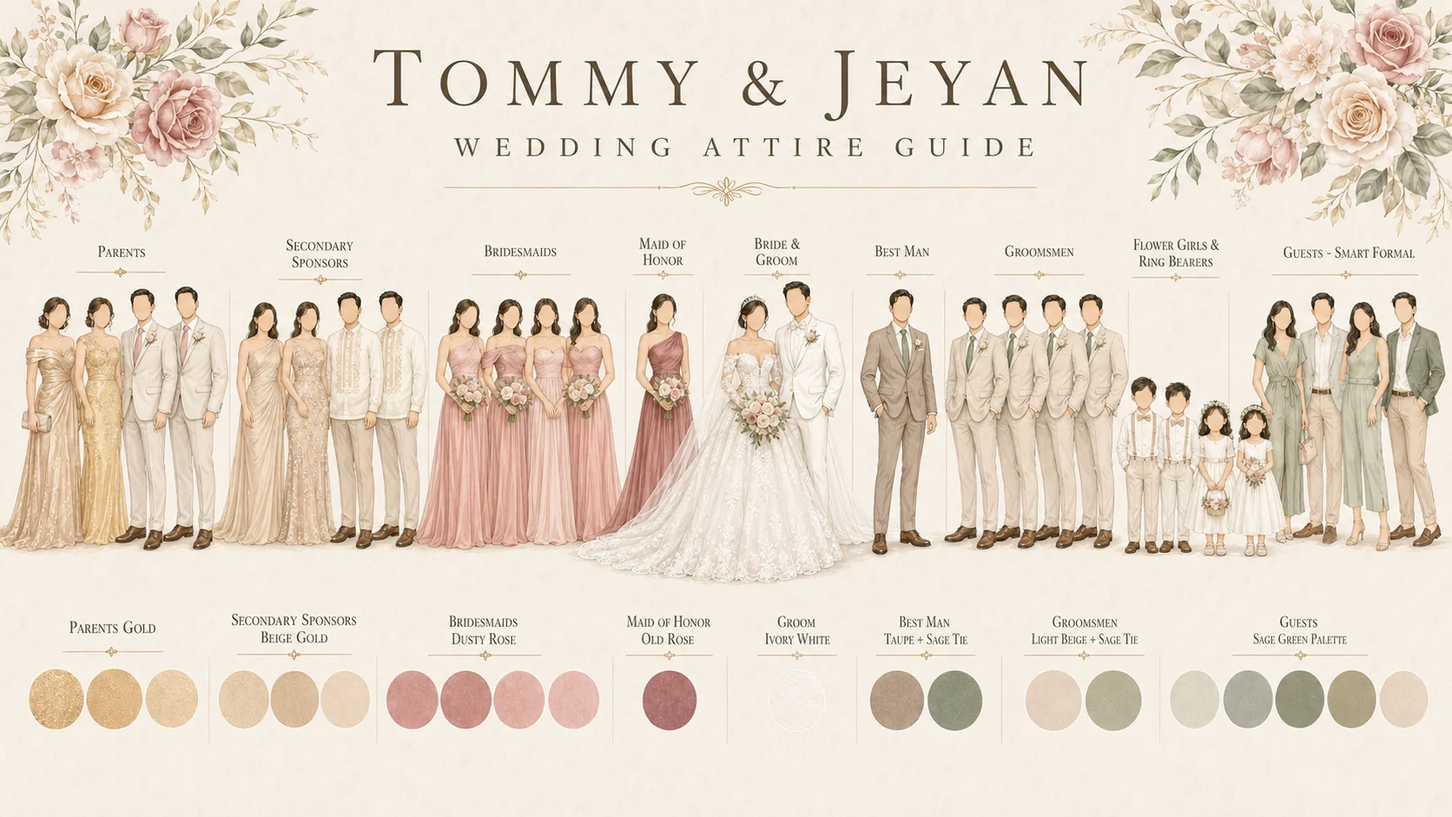
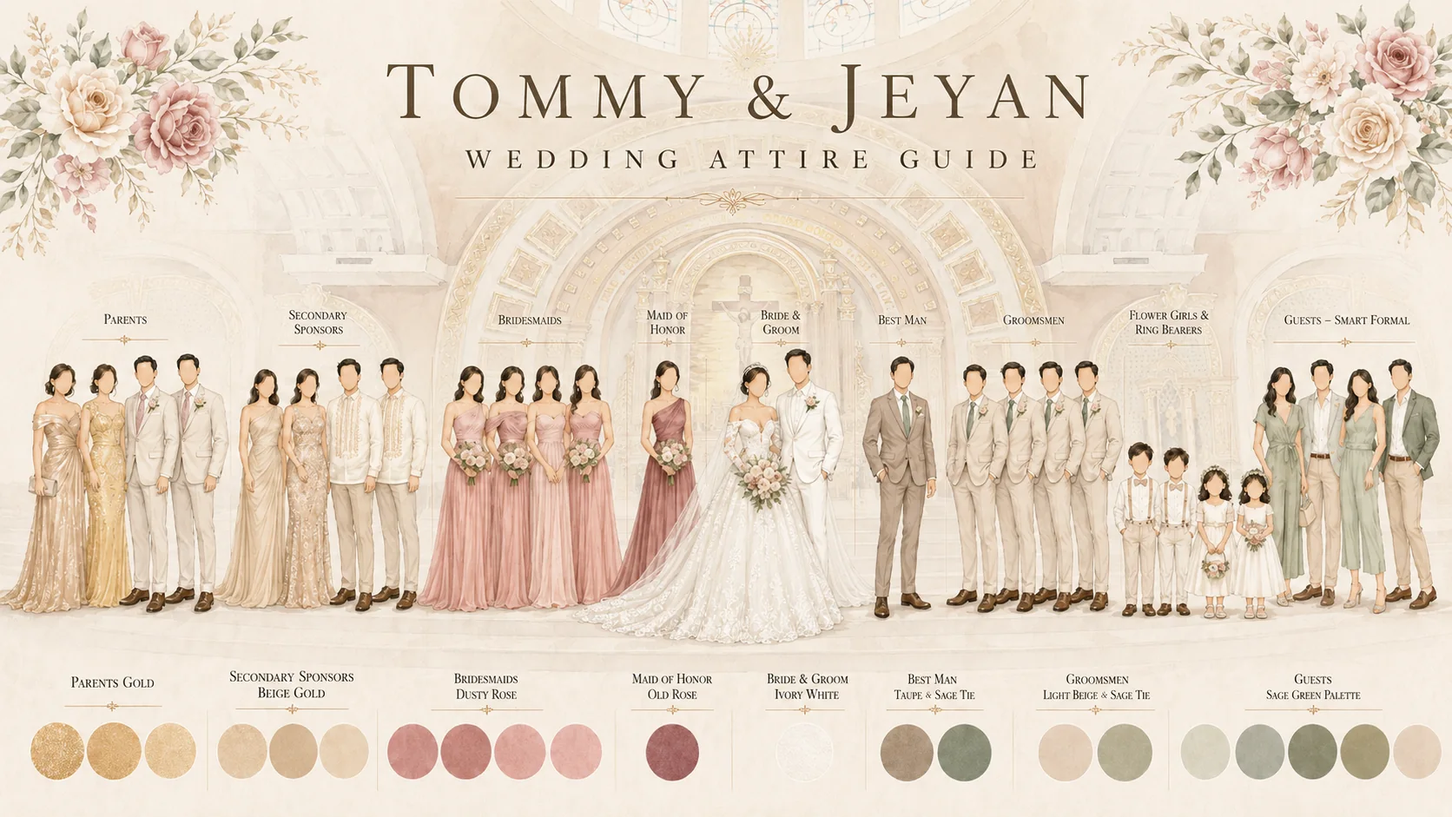
Beach goes widescreen + true beach vibes; map air; lightbox centering
- Fix: .scene place-items:center now shrink-wraps block children in new
  Chrome - the beach stage collapsed to text width on desktop. place-items
  normal on #s-beach/#s-journey + explicit widths.
- Beach: teal sea-glass water, foam swash, drifting clouds, gliding gulls,
  swaying palm fronds, starfish + shell, bigger horizon sun; detail cards
  in one row of four on wide screens. All animation reduced-motion gated.
- Our World (phone): taller chart (3/4.9), respaced pins, Sea of Someday
  moved to open water, redundant legend chip hidden.
- Lightbox: fit-content sizing so the dialog hugs the image (was pinned
  to an edge / cut off-centre on both phone and desktop); wide images on
  portrait phones turn sideways to fill the screen, absolutely centred.
- New attire guide artwork (attire-guide.webp, cache-busted ?v=2).

diff --git a/docs/journey.html b/docs/journey.html
@@ -255,9 +255,9 @@
     .reveal.d1 { transition-delay: .05s; } .reveal.d2 { transition-delay: .2s; } .reveal.d3 { transition-delay: .35s; }
 
     /* Section 1 — the journey (over globe, transparent; becomes a scroll "pin tour" with WebGL) */
-    #s-journey { display: block; padding: 0; }
+    #s-journey { display: block; place-items: normal; padding: 0; }
     html.webgl #s-journey { min-height: 320svh; }
-    .tour-sticky { position: sticky; top: 0; min-height: 100svh; display: grid; place-items: center; padding: 12vh 24px; }
+    .tour-sticky { position: sticky; top: 0; width: 100%; min-height: 100svh; display: grid; place-items: center; padding: 12vh 24px; }
     #s-journey .copy h2 { font-size: clamp(30px, 6vw, 60px); color: #f4eede; }
     #s-journey .lede { margin-top: 18px; color: rgba(236,230,218,.72); font-size: 17px; }
     .pinwords { display: flex; flex-wrap: wrap; gap: 10px 14px; justify-content: center; margin-top: 28px; }
@@ -303,49 +303,86 @@
     .banner-copy .eyebrow { color: var(--gold-soft); text-shadow: 0 1px 14px rgba(0,0,0,.7); }
     .banner-copy h2 { color: #fdf8ee; font-size: clamp(32px, 7vw, 70px); text-shadow: 0 2px 30px rgba(0,0,0,.5); }
 
-    /* Section 2 — The Day: a quiet sunset beach.
-       The scene lives in its own stage; the detail cards sit BELOW it on the
-       sand, so the sun, waves, guitar and sunglasses are never covered. */
-    #s-beach { display: block; padding: 0; min-height: 100svh; overflow: hidden; background: #e9cda1; }
-    .beach-stage { position: relative; height: max(62svh, 430px); overflow: hidden; }
-    .beach-sky { position: absolute; left: 0; right: 0; top: 0; height: 60%; pointer-events: none;
-      background: linear-gradient(180deg, #dfa172 0%, #efc491 46%, #fbe7c6 100%); }
-    .beach-sun { position: absolute; left: 0; right: 0; top: 47%; height: 0; pointer-events: none; }
-    .beach-sun::before { content: ""; display: block; margin: 0 auto; width: clamp(130px, 26vw, 210px);
-      aspect-ratio: 1; border-radius: 50%; transform: translateY(-50%);
-      background: radial-gradient(circle, #fff3d6 0%, #ffe2ad 38%, rgba(255,214,150,.45) 62%, transparent 75%);
+    /* Section 2 — The Day: a sunset beach.
+       The scene lives in its own full-width stage; the detail cards sit BELOW
+       it on the sand, so the water, sun, palms and guitar are never covered.
+       place-items: normal undoes .scene's place-items:center — in newer
+       Chrome that now reaches block children too and shrink-wrapped the
+       stage to the heading's text width on desktop. */
+    #s-beach { display: block; place-items: normal; padding: 0; min-height: 100svh; overflow: hidden; background: #ecd2a6; }
+    .beach-stage { position: relative; width: 100%; height: max(64svh, 460px); overflow: hidden; }
+    .beach-stage > * { pointer-events: none; }
+    .beach-sky { position: absolute; left: 0; right: 0; top: 0; height: 58%;
+      background: linear-gradient(180deg, #c96b43 0%, #e08d59 26%, #f2b87e 56%, #fbdfae 83%, #fdeec9 100%); }
+    .beach-cloud { position: absolute; height: 15px; border-radius: 50px; background: rgba(255,238,212,.7);
+      filter: blur(7px); animation: cdrift 70s linear infinite; }
+    .beach-cloud.c1 { top: 38%; width: clamp(140px, 16vw, 240px); opacity: .8; }
+    .beach-cloud.c2 { top: 46%; width: clamp(90px, 11vw, 170px); height: 11px; animation-duration: 95s; animation-delay: -40s; opacity: .65; }
+    .beach-cloud.c3 { top: 7%; width: clamp(70px, 8vw, 130px); height: 9px; animation-duration: 80s; animation-delay: -64s; opacity: .5; }
+    @keyframes cdrift { from { transform: translateX(-28vw); } to { transform: translateX(112vw); } }
+    .beach-birds { position: absolute; top: 6%; left: 0; width: clamp(64px, 8vw, 110px); color: rgba(86,50,28,.6);
+      animation: bglide 44s linear infinite; }
+    .beach-birds.b2 { top: 40%; width: clamp(44px, 5.4vw, 76px); animation-duration: 58s; animation-delay: -30s; opacity: .65; }
+    @keyframes bglide {
+      from { transform: translateX(-18vw) translateY(0); }
+      50%  { transform: translateX(46vw) translateY(-16px); }
+      to   { transform: translateX(112vw) translateY(2px); }
+    }
+    .beach-sun { position: absolute; left: 0; right: 0; top: 58%; height: 0; }
+    .beach-sun::before { content: ""; display: block; margin: 0 auto; width: clamp(150px, 19vw, 280px);
+      aspect-ratio: 1; border-radius: 50%; transform: translateY(-58%);
+      background: radial-gradient(circle, #fff6dd 0%, #ffe3a6 38%, #ffc887 58%, rgba(255,196,135,.5) 72%, transparent 80%);
       filter: blur(1px); }
-    .beach-sea { position: absolute; left: 0; right: 0; top: 58%; height: 15%; pointer-events: none;
-      background: linear-gradient(180deg, #d9a276 0%, #cb9a7c 100%); }
+    /* water: a warm mirror at the horizon melting into real sea-glass teal */
+    .beach-sea { position: absolute; left: 0; right: 0; top: 58%; height: 19%;
+      background: linear-gradient(180deg,
+        #e2a36a 0%, #c2a07c 7%, #79ada0 22%, #5b9a90 46%, #74b3a4 72%, #9ccdba 92%, #bfdfcd 100%); }
     .beach-sea::after { /* sun glitter path on the water */
-      content: ""; position: absolute; left: 50%; top: 0; bottom: 0; width: clamp(60px, 12vw, 110px);
+      content: ""; position: absolute; left: 50%; top: 0; height: 70%; width: clamp(70px, 9vw, 130px);
       transform: translateX(-50%);
-      background: linear-gradient(180deg, rgba(255,240,205,.55), rgba(255,240,205,0));
-      filter: blur(4px); }
-    .beach-waves { position: absolute; left: -4%; right: -4%; width: 108%; top: 56%; height: 64px; pointer-events: none; }
-    .beach-waves .w1 { fill: rgba(213,150,110,.5); animation: wdrift 16s ease-in-out infinite alternate; }
-    .beach-waves .w2 { fill: rgba(236,188,138,.65); animation: wdrift 11s ease-in-out infinite alternate-reverse; }
-    .beach-waves .w3 { fill: none; stroke: rgba(253,240,214,.8); stroke-width: 2; stroke-linecap: round;
+      background: linear-gradient(180deg, rgba(255,236,185,.8), rgba(255,236,185,0));
+      filter: blur(5px); }
+    .beach-waves { position: absolute; left: -4%; right: -4%; width: 108%; top: 68.5%; height: 70px; }
+    .beach-waves .w1 { fill: rgba(64,134,124,.42); animation: wdrift 16s ease-in-out infinite alternate; }
+    .beach-waves .w2 { fill: rgba(141,200,185,.62); animation: wdrift 11s ease-in-out infinite alternate-reverse; }
+    .beach-waves .w3 { fill: none; stroke: rgba(253,247,232,.9); stroke-width: 2; stroke-linecap: round;
       animation: wdrift 13s ease-in-out infinite alternate; }
     @keyframes wdrift { from { transform: translateX(-18px); } to { transform: translateX(18px); } }
-    .beach-sand { position: absolute; left: 0; right: 0; top: 71%; bottom: 0; pointer-events: none;
-      background: linear-gradient(180deg, #f2d9b0 0%, #e9cda1 100%); }
+    /* foam licking the sand */
+    .beach-foam { position: absolute; left: -4%; width: 108%; top: 73.2%; height: 44px; color: #fdf4e0;
+      animation: swash 8s ease-in-out infinite alternate; }
+    .beach-foam path { fill: currentColor; opacity: .9; }
+    @keyframes swash { from { transform: translateY(-5px); } to { transform: translateY(5px); } }
+    .beach-sand { position: absolute; left: 0; right: 0; top: 76%; bottom: 0;
+      background: linear-gradient(180deg, #f6deb4 0%, #ecd2a6 100%); }
     .beach-sand::after { content: ""; position: absolute; inset: 0; opacity: .4;
       background-image: radial-gradient(rgba(140,100,55,.12) 1px, transparent 1.4px);
       background-size: 26px 26px; }
-    .beach-guitar { position: absolute; right: clamp(10px, 6vw, 90px); bottom: 6px; height: clamp(130px, 44%, 230px);
-      width: auto; color: #6b4527; opacity: .6; transform: rotate(7deg); pointer-events: none; }
-    .beach-shades { position: absolute; left: clamp(12px, 8vw, 120px); bottom: 7%; width: clamp(60px, 16%, 110px);
-      color: #6b4527; opacity: .55; transform: rotate(-9deg); pointer-events: none; }
+    /* line-art keepsakes on the sand */
+    .beach-palm { position: absolute; top: -8px; left: -10px; width: clamp(170px, 25vw, 380px); color: #5d3c22;
+      opacity: .8; transform-origin: 6% 4%; animation: sway 9s ease-in-out infinite alternate; }
+    @keyframes sway { from { transform: rotate(-1deg); } to { transform: rotate(1.2deg); } }
+    .beach-guitar { position: absolute; right: clamp(14px, 7vw, 130px); bottom: 8px; height: clamp(150px, 48%, 270px);
+      width: auto; color: #6b4527; opacity: .72; transform: rotate(7deg); }
+    .beach-shades { position: absolute; left: clamp(14px, 8vw, 130px); bottom: 6.5%; width: clamp(64px, 14%, 118px);
+      color: #6b4527; opacity: .6; transform: rotate(-9deg); }
+    .beach-star { position: absolute; left: 34%; bottom: 4.5%; width: clamp(30px, 4vw, 52px);
+      color: #8a5a32; opacity: .55; transform: rotate(14deg); }
+    .beach-shell { position: absolute; right: 31%; bottom: 13%; width: clamp(22px, 3vw, 38px);
+      color: #8a5a32; opacity: .5; transform: rotate(-12deg); }
     .beach-head { position: relative; z-index: 2; max-width: 760px; margin: 0 auto; text-align: center;
       padding: clamp(44px, 8svh, 84px) 24px 0; }
-    #s-beach .eyebrow { color: #6b3a1c; }
-    #s-beach h2 { color: #46291a; font-size: clamp(34px, 7vw, 64px); }
-    #s-beach .lede { margin-top: 12px; color: #6e4730; max-width: 520px; margin-left: auto; margin-right: auto; }
-    .beach-details { position: relative; z-index: 1; padding: 4px 24px clamp(48px, 8svh, 84px);
-      background: linear-gradient(180deg, #e9cda1 0%, #e3c393 100%); }
+    #s-beach .eyebrow { color: #5d2f15; }
+    #s-beach h2 { color: #3f2312; font-size: clamp(34px, 7vw, 64px); }
+    #s-beach .lede { margin-top: 12px; color: #5f3a22; max-width: 520px; margin-left: auto; margin-right: auto; }
+    .beach-details { position: relative; z-index: 1; padding: 10px 24px clamp(48px, 8svh, 84px);
+      background: linear-gradient(180deg, #ecd2a6 0%, #e4c596 100%); }
     .beach-details .detail-grid { max-width: 760px; margin: 14px auto 0; }
-    @media (min-width: 720px) { .beach-stage { height: max(68svh, 520px); } }
+    @media (min-width: 720px) { .beach-stage { height: max(74svh, 560px); } }
+    @media (min-width: 980px) { /* widescreen: one elegant row of four */
+      .beach-details .detail-grid { max-width: 1140px; grid-template-columns: repeat(4, 1fr); }
+      .beach-details .detail.wide { grid-column: auto; }
+    }
     .detail-grid { display: grid; grid-template-columns: repeat(2, 1fr); gap: 14px; margin-top: 30px; }
     .detail { background: rgba(255,252,245,.84); backdrop-filter: blur(6px);
       border: 1px solid rgba(255,255,255,.65); border-radius: 6px; padding: 20px 18px;
@@ -376,7 +413,7 @@
       /* no min-height: with aspect-ratio it transfers into a min-WIDTH (409px)
          that overflowed phone screens; the ratio alone defines the height */
       position: relative; width: 100%; max-width: 980px; margin: 34px auto 0;
-      aspect-ratio: 3 / 4.4;
+      aspect-ratio: 3 / 4.9;
       border-radius: 14px; overflow: hidden;
       background:
         radial-gradient(120% 90% at 50% 0%, rgba(255,253,247,.9), transparent 55%),
@@ -524,8 +561,20 @@
     .music-btn.playing { background: var(--gold); color: var(--night1); }
     /* gallery lightbox */
     .gtile { cursor: zoom-in; }
-    dialog.panel.lightbox { background: transparent; box-shadow: none; width: auto; max-width: min(94vw, 1100px); overflow: visible; }
-    dialog.panel.lightbox img { display: block; max-width: 94vw; max-height: 86svh; border-radius: 10px; box-shadow: var(--shadow); }
+    /* fit-content (not auto): a modal dialog has inset:0, so auto would
+       stretch it across the viewport and the image would pin to one edge
+       instead of centering. The box hugs the image; margin:auto centers it. */
+    dialog.panel.lightbox { background: transparent; box-shadow: none;
+      width: fit-content; height: fit-content; max-width: none; max-height: none; overflow: visible; }
+    dialog.panel.lightbox img { display: block; max-width: 94vw; max-height: 88svh; border-radius: 10px; box-shadow: var(--shadow); }
+    /* phones: a wide image in a portrait viewport turns sideways to use the
+       whole screen (JS adds .rotated and sets the width) */
+    dialog.panel.lightbox.rotated { width: 100vw; max-width: 100vw; height: 100svh; max-height: 100svh; margin: 0; }
+    /* absolute centering: a grid cell start-aligns content that overflows it,
+       so the sideways (extra-wide layout box) image would sit off-centre */
+    dialog.panel.lightbox.rotated img { position: absolute; left: 50%; top: 50%;
+      transform: translate(-50%, -50%) rotate(90deg); max-width: none; max-height: none; }
+    dialog.panel.lightbox.rotated .panel-close { position: fixed; top: calc(10px + env(safe-area-inset-top)); right: 10px; }
     dialog.panel.lightbox .panel-close {
       position: absolute; top: -14px; right: -14px; background: var(--ivory); border-color: var(--ivory);
     }
@@ -686,15 +735,17 @@
       .map-compass { width: 46px; top: 18px; right: 18px; }
       .map-script { font-size: 17px; left: 18px; bottom: 12px; }
       #s-world { padding-left: 14px; padding-right: 14px; }
+      .beach-shell { right: 47%; bottom: 11%; }
       .map-cartouche { padding: 5px 14px 7px; }
       .map-cartouche span { font-size: 8px; }
       .map-cartouche b { font-size: 16px; }
-      .map-sea { font-size: 12.5px; letter-spacing: .2em; bottom: 30%; right: 5%; }
-      .map-legend { font-size: 9px; padding: 5px 9px; }
+      .map-sea { font-size: 12.5px; letter-spacing: .2em; top: 31%; left: 7%; right: auto; bottom: auto; }
+      /* the hint below the map says the same thing — give the chart air */
+      .map-legend { display: none; }
       .pin-place { font-size: 11.5px; }
       .ent-leads, .ent-party { grid-template-columns: 1fr; }
       dialog.panel { width: 100%; max-width: 100%; height: 100svh; max-height: 100svh; border-radius: 0; margin: 0; }
-      dialog.panel.lightbox { width: auto; height: auto; max-height: none; margin: auto; background: transparent; }
+      dialog.panel.lightbox { width: fit-content; height: fit-content; max-height: none; margin: auto; background: transparent; border-radius: 8px; }
       dialog.panel.lightbox .panel-close { top: 6px; right: 6px; }
       .panel-inner { padding: 28px 20px 40px; }
     }
@@ -716,7 +767,10 @@
       .spark { display: none; }
       #title h1 .tw { opacity: 1; transform: none; }
       #s-next .arrive-reveal { opacity: 1; transform: none; }
-      .beach-waves .w1, .beach-waves .w2, .beach-waves .w3 { animation: none; }
+      .beach-waves .w1, .beach-waves .w2, .beach-waves .w3,
+      .beach-foam, .beach-palm { animation: none; }
+      .beach-cloud, .beach-birds { animation: none; transform: translateX(30vw); }
+      .beach-cloud.c2, .beach-birds.b2 { transform: translateX(60vw); }
       #s-journey { min-height: 100svh !important; }
     }
   </style>
@@ -863,6 +917,20 @@
     <section class="scene" id="s-beach" data-scene="beach">
       <div class="beach-stage">
       <div class="beach-sky" aria-hidden="true"></div>
+      <div class="beach-cloud c1" aria-hidden="true"></div>
+      <div class="beach-cloud c2" aria-hidden="true"></div>
+      <div class="beach-cloud c3" aria-hidden="true"></div>
+      <svg class="beach-birds" aria-hidden="true" viewBox="0 0 100 40">
+        <g fill="none" stroke="currentColor" stroke-width="2.4" stroke-linecap="round">
+          <path d="M8 22 Q15 14 22 20 Q29 14 36 22" />
+          <path d="M58 30 Q64 24 69 28 Q74 24 80 30" />
+        </g>
+      </svg>
+      <svg class="beach-birds b2" aria-hidden="true" viewBox="0 0 100 40">
+        <g fill="none" stroke="currentColor" stroke-width="2.6" stroke-linecap="round">
+          <path d="M30 22 Q37 14 44 20 Q51 14 58 22" />
+        </g>
+      </svg>
       <div class="beach-sun" aria-hidden="true" data-parallax="0.1" data-pscale="1"></div>
       <div class="beach-sea" aria-hidden="true"></div>
       <svg class="beach-waves" aria-hidden="true" viewBox="0 0 1440 120" preserveAspectRatio="none">
@@ -871,6 +939,32 @@
         <path class="w3" d="M0,64 C190,50 380,78 580,64 C780,50 980,80 1180,66 C1300,58 1390,70 1440,64" />
       </svg>
       <div class="beach-sand" aria-hidden="true"></div>
+      <svg class="beach-foam" aria-hidden="true" viewBox="0 0 1440 60" preserveAspectRatio="none">
+        <path d="M0,36 C50,18 130,48 210,30 C290,14 360,50 450,30 C530,14 610,48 700,26 C780,12 860,50 950,30 C1030,16 1110,48 1190,28 C1270,14 1350,46 1440,28 L1440,60 L0,60 Z" />
+      </svg>
+      <svg class="beach-palm" aria-hidden="true" viewBox="0 0 400 300">
+        <g fill="none" stroke="currentColor" stroke-width="2.6" stroke-linecap="round" stroke-linejoin="round">
+          <path d="M24 14 C90 30 160 70 218 138" />
+          <path d="M52 28 q-2 16 -12 26 M78 40 q-3 16 -13 27 M104 55 q-4 17 -15 27 M130 71 q-5 17 -16 26 M156 90 q-6 17 -17 25 M181 110 q-7 16 -18 23 M203 130 q-8 15 -18 21" stroke-width="1.9" />
+          <path d="M52 28 q10 -14 24 -19 M78 40 q11 -13 25 -17 M104 55 q12 -12 26 -15 M130 71 q13 -11 27 -13 M156 90 q14 -10 27 -11 M181 110 q14 -9 26 -9" stroke-width="1.9" />
+          <path d="M22 18 C60 80 96 140 108 218" />
+          <path d="M38 52 q-16 4 -26 14 M50 84 q-17 4 -27 14 M62 118 q-18 5 -28 15 M72 150 q-18 6 -27 16 M82 184 q-17 7 -25 17 M90 210 q-16 8 -23 18" stroke-width="1.9" />
+          <path d="M38 52 q12 -12 26 -14 M50 84 q13 -11 27 -12 M62 118 q14 -10 28 -10 M72 150 q14 -9 27 -8 M82 184 q14 -8 26 -6" stroke-width="1.9" />
+          <path d="M26 12 C100 8 170 22 232 56" />
+          <path d="M70 12 q0 14 -8 26 M104 16 q-1 15 -10 27 M138 24 q-2 16 -12 27 M172 34 q-4 16 -14 26 M204 45 q-5 15 -15 24" stroke-width="1.9" />
+          <path d="M70 12 q8 -10 22 -12 M104 16 q9 -10 23 -11 M138 24 q10 -9 24 -9 M172 34 q11 -8 24 -7" stroke-width="1.9" />
+        </g>
+      </svg>
+      <svg class="beach-star" aria-hidden="true" viewBox="0 0 60 60">
+        <path d="M30 7 C32 17 35 21 43 22 C36 27 34 31 36 41 C30 36 27 36 20 42 C23 32 22 27 14 22 C23 21 27 16 30 7 Z"
+          fill="none" stroke="currentColor" stroke-width="2.2" stroke-linejoin="round" />
+      </svg>
+      <svg class="beach-shell" aria-hidden="true" viewBox="0 0 50 44">
+        <g fill="none" stroke="currentColor" stroke-width="2" stroke-linecap="round" stroke-linejoin="round">
+          <path d="M25 6 C38 6 45 18 44 32 C38 38 12 38 6 32 C5 18 12 6 25 6 Z" />
+          <path d="M25 7 V36 M14 9 L20 36 M36 9 L30 36" stroke-width="1.6" />
+        </g>
+      </svg>
       <svg class="beach-guitar" aria-hidden="true" viewBox="0 0 120 280">
         <g fill="none" stroke="currentColor" stroke-width="2.2" stroke-linecap="round" stroke-linejoin="round">
           <path d="M60 122 C38 122 24 140 24 162 C24 178 33 188 30 202 C27 226 44 248 62 248 C82 248 98 228 95 204 C93 189 100 179 100 162 C100 140 83 122 60 122 Z" />
@@ -966,13 +1060,13 @@
             <path class="route" d="" />
             <g class="route-plane" id="route-plane" style="display:none"><use href="#ic-plane" width="20" height="20" x="-10" y="-10"/></g>
           </svg>
-          <button class="map-pin" style="--mx:22;--my:15;--x:14;--y:34" data-panel="p-film" aria-label="Stop 1, Coffee Cove: watch our film"><span class="pin-dot"><svg><use href="#ic-coffee"/></svg><i class="pin-num">1</i></span><span class="pin-label">Our Film</span><span class="pin-place">Coffee Cove</span></button>
-          <button class="map-pin" style="--mx:70;--my:16;--x:33;--y:16" data-panel="p-itinerary" aria-label="Stop 2, Billiard Plains: itinerary"><span class="pin-dot"><svg><use href="#ic-ball"/></svg><i class="pin-num">2</i></span><span class="pin-label">Itinerary</span><span class="pin-place">Billiard Plains</span></button>
-          <button class="map-pin" style="--mx:72;--my:38;--x:83;--y:21" data-panel="p-directions" aria-label="Stop 3, Long Road Home: directions"><span class="pin-dot"><svg><use href="#ic-road"/></svg><i class="pin-num">3</i></span><span class="pin-label">Directions</span><span class="pin-place">Long Road Home</span></button>
-          <button class="map-pin" style="--mx:28;--my:50;--x:85;--y:54" data-panel="p-attire" aria-label="Stop 4, Yoga Shores: attire"><span class="pin-dot"><svg><use href="#ic-yoga"/></svg><i class="pin-num">4</i></span><span class="pin-label">Attire</span><span class="pin-place">Yoga Shores</span></button>
-          <button class="map-pin" style="--mx:70;--my:62;--x:58;--y:72" data-panel="p-entourage" aria-label="Stop 5, Boxing Bay: entourage"><span class="pin-dot"><svg><use href="#ic-box"/></svg><i class="pin-num">5</i></span><span class="pin-label">Entourage</span><span class="pin-place">Boxing Bay</span></button>
-          <button class="map-pin" style="--mx:30;--my:74;--x:33;--y:78" data-panel="p-program" aria-label="Stop 6, Karaoke Heights: program"><span class="pin-dot"><svg><use href="#ic-mic"/></svg><i class="pin-num">6</i></span><span class="pin-label">Program</span><span class="pin-place">Karaoke Heights</span></button>
-          <button class="map-pin" style="--mx:70;--my:86;--x:14;--y:64" data-panel="p-gift" aria-label="Stop 7, City of Us: gift fund"><span class="pin-dot"><svg><use href="#ic-city"/></svg><i class="pin-num">7</i></span><span class="pin-label">Gift Fund</span><span class="pin-place">City of Us</span></button>
+          <button class="map-pin" style="--mx:22;--my:11;--x:14;--y:34" data-panel="p-film" aria-label="Stop 1, Coffee Cove: watch our film"><span class="pin-dot"><svg><use href="#ic-coffee"/></svg><i class="pin-num">1</i></span><span class="pin-label">Our Film</span><span class="pin-place">Coffee Cove</span></button>
+          <button class="map-pin" style="--mx:70;--my:13;--x:33;--y:16" data-panel="p-itinerary" aria-label="Stop 2, Billiard Plains: itinerary"><span class="pin-dot"><svg><use href="#ic-ball"/></svg><i class="pin-num">2</i></span><span class="pin-label">Itinerary</span><span class="pin-place">Billiard Plains</span></button>
+          <button class="map-pin" style="--mx:72;--my:35;--x:83;--y:21" data-panel="p-directions" aria-label="Stop 3, Long Road Home: directions"><span class="pin-dot"><svg><use href="#ic-road"/></svg><i class="pin-num">3</i></span><span class="pin-label">Directions</span><span class="pin-place">Long Road Home</span></button>
+          <button class="map-pin" style="--mx:26;--my:48;--x:85;--y:54" data-panel="p-attire" aria-label="Stop 4, Yoga Shores: attire"><span class="pin-dot"><svg><use href="#ic-yoga"/></svg><i class="pin-num">4</i></span><span class="pin-label">Attire</span><span class="pin-place">Yoga Shores</span></button>
+          <button class="map-pin" style="--mx:70;--my:61;--x:58;--y:72" data-panel="p-entourage" aria-label="Stop 5, Boxing Bay: entourage"><span class="pin-dot"><svg><use href="#ic-box"/></svg><i class="pin-num">5</i></span><span class="pin-label">Entourage</span><span class="pin-place">Boxing Bay</span></button>
+          <button class="map-pin" style="--mx:28;--my:74;--x:33;--y:78" data-panel="p-program" aria-label="Stop 6, Karaoke Heights: program"><span class="pin-dot"><svg><use href="#ic-mic"/></svg><i class="pin-num">6</i></span><span class="pin-label">Program</span><span class="pin-place">Karaoke Heights</span></button>
+          <button class="map-pin" style="--mx:64;--my:87;--x:14;--y:64" data-panel="p-gift" aria-label="Stop 7, City of Us: gift fund"><span class="pin-dot"><svg><use href="#ic-city"/></svg><i class="pin-num">7</i></span><span class="pin-label">Gift Fund</span><span class="pin-place">City of Us</span></button>
         </div>
         <p class="map-hint reveal d2">Follow stops 1&ndash;7 &middot; tap any marker</p>
       </div>
@@ -1135,7 +1229,7 @@
       </div>
       <figure class="attire-guide">
         <button type="button" class="ag-frame" id="attire-zoom" aria-label="Enlarge the attire guide">
-          <img src="images/attire-guide.webp" width="1672" height="941" loading="lazy" decoding="async" alt="Illustrated attire guide showing the wedding palette from parents in gold through bridesmaids in dusty rose, groomsmen with sage ties, to guests in sage-green pastel." />
+          <img src="images/attire-guide.webp?v=2" width="1672" height="941" loading="lazy" decoding="async" alt="Illustrated attire guide showing the wedding palette from parents in gold through bridesmaids in dusty rose, groomsmen with sage ties, to guests in sage-green pastel." />
           <span class="ag-zoom">Tap to enlarge</span>
         </button>
       </figure>
@@ -1494,10 +1588,28 @@
     (function () {
       const dlg = $('p-photo'), im = $('lb-img'); if (!dlg || !im) return;
       let lastTrigger = null;
+      /* On a portrait phone a wide image is tiny; turn it sideways so it can
+         use the whole screen. Layout width = on-screen height after rotation. */
+      function fitRotate() {
+        if (!dlg.open) { return; }
+        const nw = im.naturalWidth, nh = im.naturalHeight;
+        const portrait = window.innerHeight > window.innerWidth;
+        const phone = Math.min(window.innerWidth, window.innerHeight) < 720;
+        if (nw && nh && nw / nh >= 1.35 && portrait && phone) {
+          dlg.classList.add('rotated');
+          const w = Math.min(.92 * window.innerHeight, .92 * window.innerWidth * nw / nh);
+          im.style.width = Math.round(w) + 'px';
+        } else {
+          dlg.classList.remove('rotated'); im.style.width = '';
+        }
+      }
+      im.addEventListener('load', fitRotate);
+      window.addEventListener('resize', fitRotate);
       function openWith(trigger, src, alt) {
         lastTrigger = trigger; im.src = src; im.alt = alt || '';
         if (window.__lenis) window.__lenis.stop();
         if (dlg.showModal) dlg.showModal();
+        if (im.complete) fitRotate();
       }
       document.querySelectorAll('.gtile').forEach((f) => {
         const img = f.querySelector('img'); if (!img) return;
@@ -1512,7 +1624,10 @@
         const img = ag.querySelector('img');
         openWith(ag, img.currentSrc || img.src, img.alt);
       });
-      dlg.addEventListener('close', () => { if (lastTrigger && lastTrigger.focus) lastTrigger.focus(); });
+      dlg.addEventListener('close', () => {
+        dlg.classList.remove('rotated'); im.style.width = '';
+        if (lastTrigger && lastTrigger.focus) lastTrigger.focus();
+      });
     })();
 
     /* Our film: load the Drive player only on first play */
